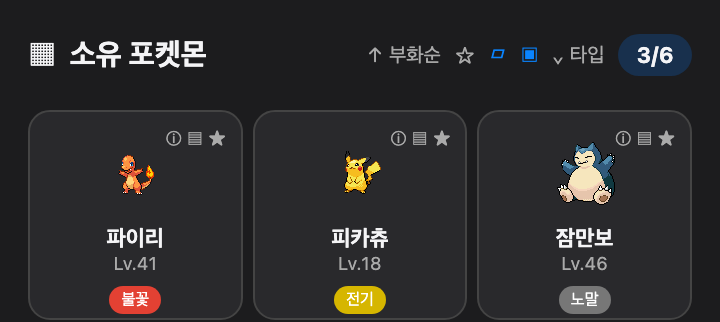
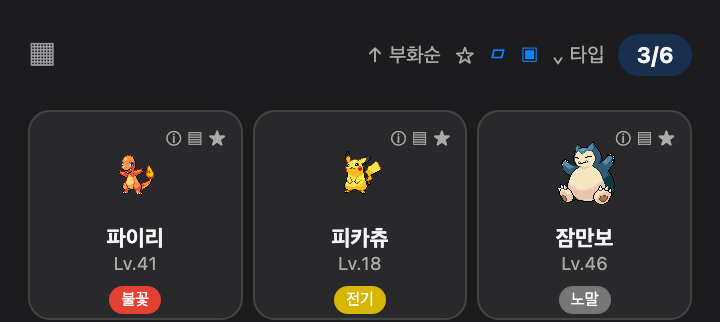
v2.31.2 릴리스 메타데이터를 갱신한다 (#299)
손빌드 기본값(DEFAULT_VERSION)을 2.31.2 로 올리고, 릴리스 노트를 이번 두 PR(#296·#297)의
변경으로 새로 쓴다. 앱 내 업데이트 팝업이 이 파일을 그대로 보여 주므로 지난 내용을 남기면
사용자가 옛 변경 내역을 다시 본다.

포켓몬 탭 머리줄 제목이 아이콘 하나로 줄었으므로(#297) 즐겨찾기 스크린샷 세 벌을 다시
그린다 — 세 README 가 같은 한국어 화면을 쓰고 있어 같은 이미지다.

Changed region(s): [[0.0306, 0.1242, 0.3056, 0.2174]]

diff --git a/RELEASE_NOTES.ko.md b/RELEASE_NOTES.ko.md
@@ -1,7 +1,6 @@
 ## 이번 업데이트
 
-- **터미널 조작 중 메뉴바 팝오버가 튀어나오지 않습니다** — 방 시작·레이드 입장처럼 한 번 실행하고 끝나는 명령 뒤에도 터미널 조작 상태를 잠시 유지해, 자동 팝오버가 화면을 가리지 않습니다.
-- **5★ 레이드는 바로 도전할 수 있습니다** — 예약 부화 없이 1★·3★·5★ 레이드가 모두 상시 열립니다.
-- **레이드 보상이 중복 지급되지 않습니다** — 오전·오후 보상 기록의 경계 처리를 고쳐, 이미 받은 보상을 다시 받을 수 있던 경우를 막았습니다.
-- **배틀 규칙과 기술 효과를 더 정확하게 반영합니다** — 턴을 넘어 유지되는 상태, 지닌물건, 기술 선택 잠금과 여러 기술 효과를 보완했습니다.
-- **한국어가 없는 특성 설명도 읽을 수 있습니다** — 번역이 없는 경우 영어 설명을 대신 표시합니다.
+- **모험 파티의 예비 자리가 밀리지 않습니다** — 함께 다닐 포켓몬을 바꾸면 모험 파티 2~6번이 한 칸씩 밀리던 문제를 고쳤습니다. 예전 활성 포켓몬이 예비로 오인돼 끼어들던 저장 방식을 바로잡았습니다.
+- **LAN 방이 판 도중에 깨지지 않습니다** — 누군가 들어오거나 나가도 싸우던 사람이 배틀 화면에서 로비로 튕기지 않습니다. 이미 진행 중인 레이드 방은 새 입장을 받지 않고 "판이 진행 중입니다" 로 돌려보냅니다.
+- **구버전과 섞여도 방이 끊기지 않습니다** — 방 프로토콜 버전을 올려, 옛 버전 참가자가 입장한 뒤 라운드 중에 연결이 끊기던 경우를 막았습니다.
+- **포켓몬 탭 머리줄이 한 줄로 나옵니다** — 좁은 팝오버 폭에서 제목이 세 줄로 접히던 문제를 고쳤습니다.
